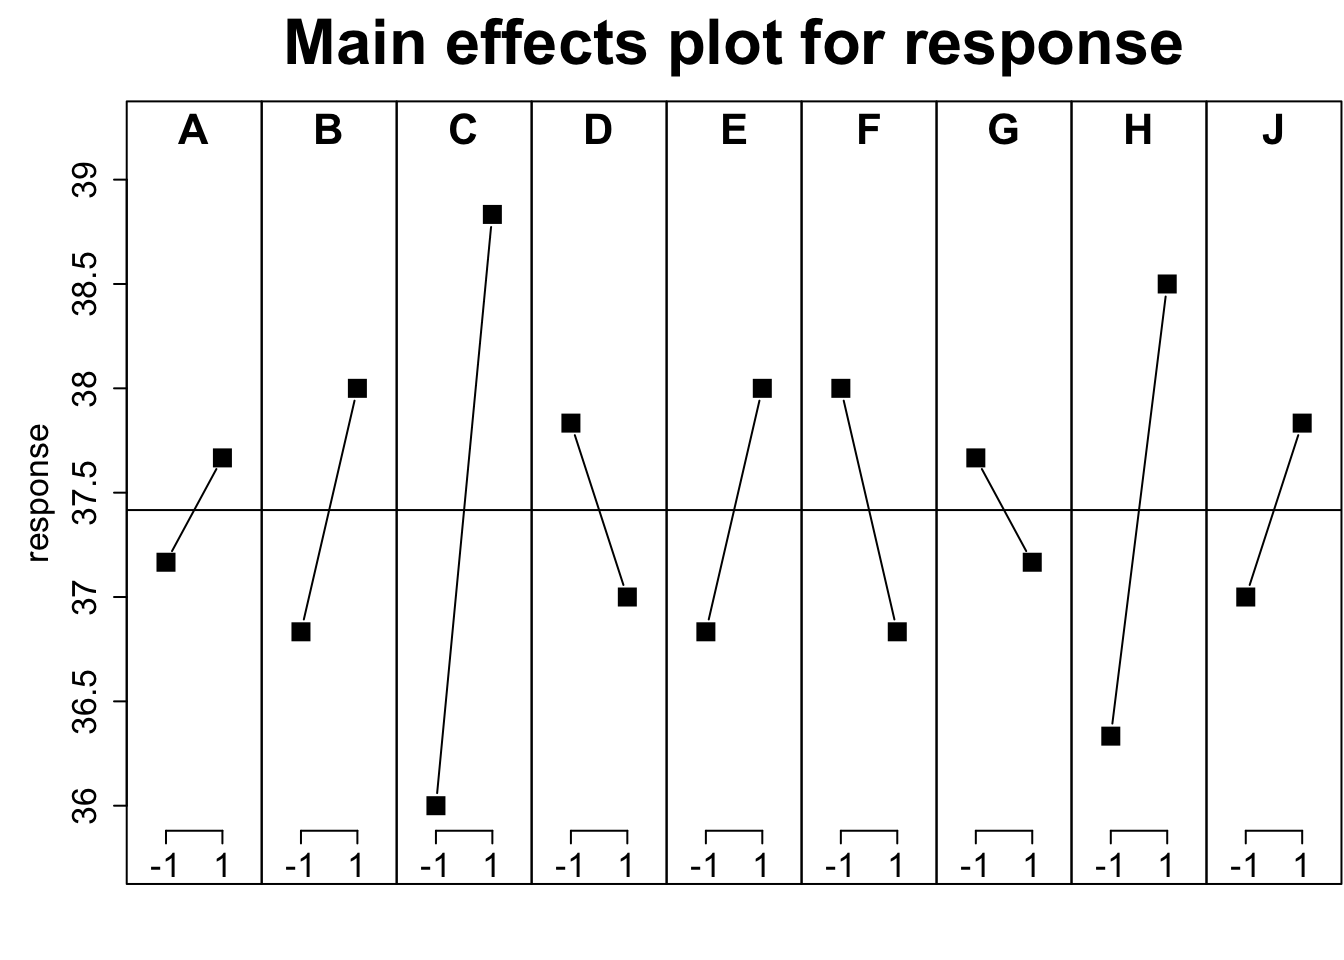
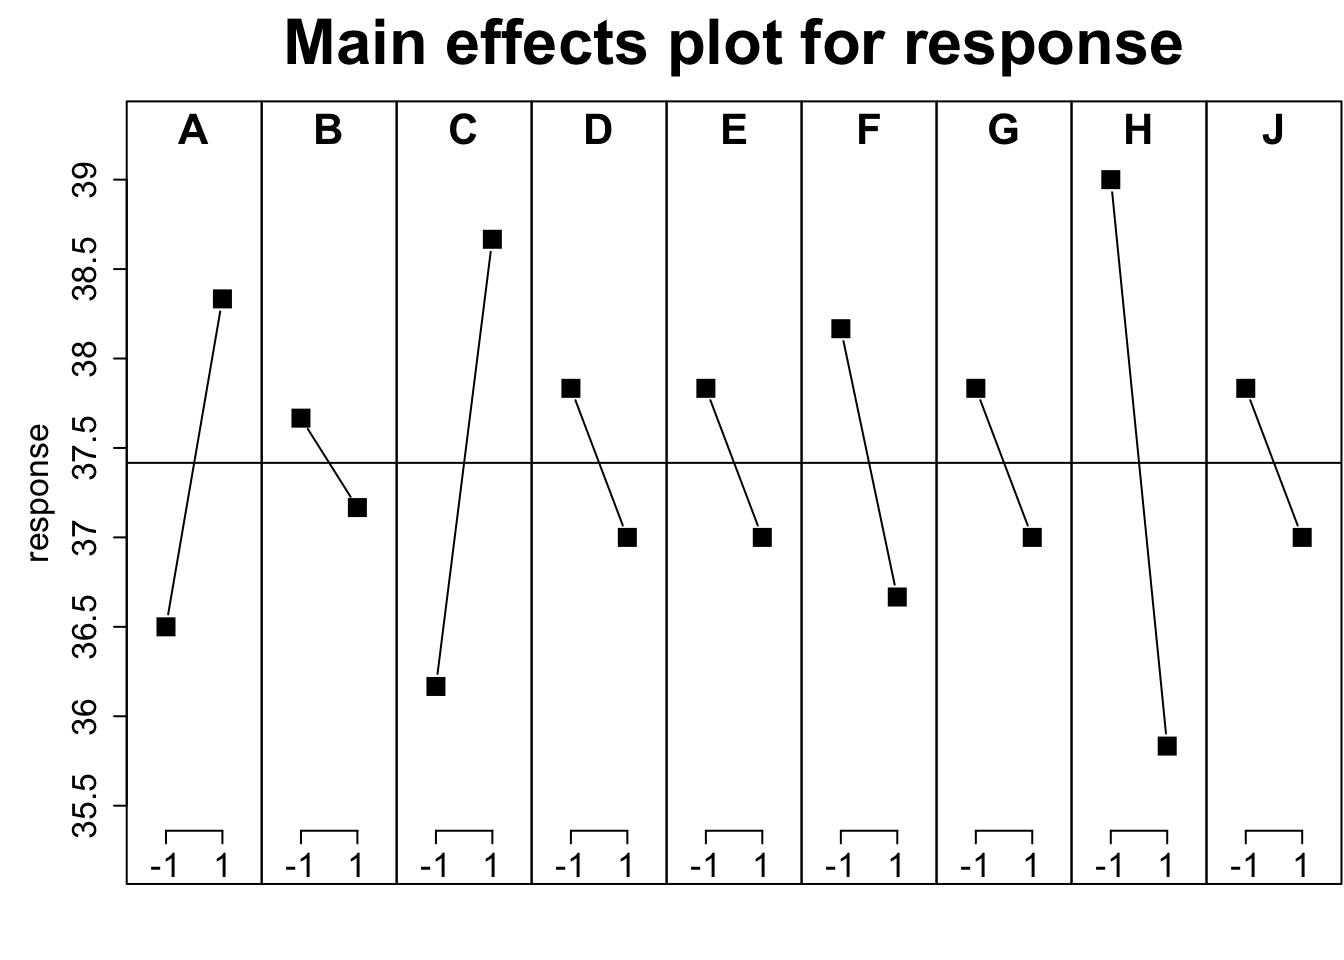
add new post

diff --git a/content/cn/2019-02-05-doe.html b/content/cn/2019-02-05-doe.html
@@ -31,18 +31,18 @@ tags: []
 <pre class="r"><code>suppressMessages(library(FrF2))
 pb(12,nfactors = 9)</code></pre>
 <pre><code>##     A  B  C  D  E  F  G  H  J
-## 1   1  1  1 -1 -1 -1  1 -1  1
-## 2  -1  1  1  1 -1 -1 -1  1 -1
-## 3   1  1 -1  1  1  1 -1 -1 -1
-## 4   1  1 -1 -1 -1  1 -1  1  1
-## 5  -1  1  1 -1  1  1  1 -1 -1
-## 6   1 -1  1  1  1 -1 -1 -1  1
-## 7  -1  1 -1  1  1 -1  1  1  1
+## 1   1 -1 -1 -1  1 -1  1  1 -1
+## 2  -1  1 -1  1  1 -1  1  1  1
+## 3  -1  1  1  1 -1 -1 -1  1 -1
+## 4  -1  1  1 -1  1  1  1 -1 -1
+## 5  -1 -1 -1 -1 -1 -1 -1 -1 -1
+## 6   1  1 -1 -1 -1  1 -1  1  1
+## 7   1 -1  1  1 -1  1  1  1 -1
 ## 8  -1 -1 -1  1 -1  1  1 -1  1
-## 9  -1 -1  1 -1  1  1 -1  1  1
-## 10 -1 -1 -1 -1 -1 -1 -1 -1 -1
-## 11  1 -1 -1 -1  1 -1  1  1 -1
-## 12  1 -1  1  1 -1  1  1  1 -1
+## 9   1  1 -1  1  1  1 -1 -1 -1
+## 10  1  1  1 -1 -1 -1  1 -1  1
+## 11 -1 -1  1 -1  1  1 -1  1  1
+## 12  1 -1  1  1  1 -1 -1 -1  1
 ## class=design, type= pb</code></pre>
 <p>这里面1与-1分别代表两个水平，当然试验设计牵扯到分辨率问题，可以理解为对该试验设计的评价，分辨率高，能区分的影响就更细致，可以用<code>FrF2</code>包中的<code>GR</code>函数来计算。需要注意的是，<code>FrF2</code>包也可以用 <code>FrF2</code> 函数来进行两水平试验设计，这里是分辨率高时是可以考察交互作用的。</p>
 <p>那么当你收集了数据，该如何分析呢？<code>FrF2</code>包实际继承了 <code>DoE.base</code> 包的S3对象类型，你只需要用 <code>add.response</code> 增加你的试验结果到设计出的S3对象上，然后就可以用方差分析或线性回归进行分析了。结果同样可以用<code>MEPlot</code>函数来进行可视化。当然，也可以用<code>halfnormal</code>函数来评价因子影响。</p>
@@ -61,28 +61,28 @@ MEPlot(plan.resp, abbrev = 5, cex.xax = 1.6, cex.main = 2)</code></pre>
 ## 
 ## Residuals:
 ##      1      2      3      4      5      6      7      8      9     10 
-##  0.667 -1.833  0.667  0.667  1.833 -1.833 -0.667 -0.667  1.833 -0.667 
+## -0.667  0.500  0.500  0.667 -0.667  0.667 -0.500 -0.500 -0.667 -0.500 
 ##     11     12 
-##  1.833 -1.833 
+##  0.667  0.500 
 ## 
 ## Coefficients:
 ##             Estimate Std. Error t value Pr(&gt;|t|)    
-## (Intercept)   37.417      0.975   38.36  0.00068 ***
-## A1             0.250      0.975    0.26  0.82167    
-## B1             0.583      0.975    0.60  0.61051    
-## C1             1.417      0.975    1.45  0.28354    
-## D1            -0.417      0.975   -0.43  0.71084    
-## E1             0.583      0.975    0.60  0.61051    
-## F1            -0.583      0.975   -0.60  0.61051    
-## G1            -0.250      0.975   -0.26  0.82167    
-## H1             1.083      0.975    1.11  0.38235    
-## J1             0.417      0.975    0.43  0.71084    
+## (Intercept)   37.417      0.417    89.8  0.00012 ***
+## A1             0.917      0.417     2.2  0.15881    
+## B1            -0.250      0.417    -0.6  0.60943    
+## C1             1.250      0.417     3.0  0.09547 .  
+## D1            -0.417      0.417    -1.0  0.42265    
+## E1            -0.417      0.417    -1.0  0.42265    
+## F1            -0.750      0.417    -1.8  0.21367    
+## G1            -0.417      0.417    -1.0  0.42265    
+## H1            -1.583      0.417    -3.8  0.06280 .  
+## J1            -0.417      0.417    -1.0  0.42265    
 ## ---
 ## Signif. codes:  0 &#39;***&#39; 0.001 &#39;**&#39; 0.01 &#39;*&#39; 0.05 &#39;.&#39; 0.1 &#39; &#39; 1
 ## 
-## Residual standard error: 3.38 on 2 degrees of freedom
-## Multiple R-squared:  0.711,  Adjusted R-squared:  -0.591 
-## F-statistic: 0.546 on 9 and 2 DF,  p-value: 0.785</code></pre>
+## Residual standard error: 1.44 on 2 degrees of freedom
+## Multiple R-squared:  0.947,  Adjusted R-squared:  0.71 
+## F-statistic: 3.99 on 9 and 2 DF,  p-value: 0.217</code></pre>
 <p>在这里PB设计实际上是一种预选法，如果结果显示某些变量影响显著，那么事实上就可以针对这些变量进行进一步的精细筛选，其余的变量可以直接固定为一个水平进行进一步设计。PB法在工业届用的比较多，但你应该想到了，如果只是进行变量选择，为啥不用随机森林或lasso？其实都可以，但这些方法不是设计而更多是数据分析通用方法，设计上除了最重要的随机性也是要考虑各因子贡献或者说重复数尽量平衡些的，否则会过分偏重某个因子，或者干脆配对或组成区组。像这样不做预设去设计对各个因子都公平，如果有预设或现实条件不允许，也可以裂区设计。</p>
 <p>当选出重要因素时，下一步常见是正交试验或响应面分析，用来优选参数。正交表这玩意我在书中没找到，文献里用得多的也是亚洲人，老外统一用析因试验来进行考察。其实正交表的设计原理就是用尽量少的步骤遍历掉因子空间，这样进行一定次数试验就可以发现最优组合。R中的实现基本都在<code>DoE.base</code> 包里，这个包内置了一堆可以直接调用的正交表，可以根据需求进行查询。例如我有6个因素，水平数分别是2，3，3，2，2，6，然后我只打算做不超过54次试验，这时可以直接调用<code>show.oas</code>函数进行查询，给出的正交表随意选一个就可以继续。</p>
 <pre class="r"><code>show.oas(nruns = c(0, 54), nlevels = c(2, 3, 3, 2, 2, 6), showmetrics = TRUE)</code></pre>
@@ -103,42 +103,42 @@ MEPlot(plan.resp, abbrev = 5, cex.xax = 1.6, cex.main = 2)</code></pre>
 <p>这里我们选分辨率略高的<code>L36.2.10.3.8.6.1</code>，从名字上看，这是一个36次试验表，可以包含10个两水平，8个三水平与1个六水平因子，这也是唯一一个分辨率高于3，可以排除交互作用的设计方法。这里我反复提到分辨率，实际上就是一种考察试验设计合理性的指标，分辨率3一般指只能区分没有交互作用的各因子贡献差异，高于3就可以区分一定的因子交互作用，可以用<code>GR</code>去计算一个广义分辨率并用<code>oa.design</code>来进一步优化这个设计，因为其实符合正交表只是众多选择的一个子集，不过根据优化方法的不同，优化时间也不太一样。</p>
 <pre class="r"><code>oa.design(L36.2.10.3.8.6.1, nlevels = c(2, 3, 3, 2, 2, 6), columns = &quot;min34&quot;)</code></pre>
 <pre><code>##    A B C D E F
-## 1  1 2 2 1 1 3
-## 2  2 3 1 1 2 2
-## 3  1 2 2 2 2 2
-## 4  2 2 2 1 2 1
-## 5  1 2 3 1 1 1
-## 6  1 2 3 2 2 5
-## 7  2 3 3 2 1 6
-## 8  2 1 2 1 2 4
-## 9  1 3 3 2 2 4
-## 10 1 1 2 1 1 5
-## 11 2 3 2 2 2 5
-## 12 1 3 1 2 2 1
-## 13 2 3 3 1 2 3
+## 1  1 2 3 1 1 1
+## 2  1 2 2 2 2 2
+## 3  2 1 2 1 2 4
+## 4  1 1 3 1 2 2
+## 5  2 2 1 2 1 5
+## 6  2 2 3 1 1 2
+## 7  1 2 1 1 2 4
+## 8  2 2 2 2 1 4
+## 9  2 2 1 2 2 3
+## 10 2 3 2 2 2 5
+## 11 1 1 2 1 1 5
+## 12 2 3 2 2 1 1
+## 13 2 1 1 2 1 2
 ## 14 1 1 1 2 2 6
-## 15 2 2 3 1 2 6
-## 16 2 1 1 2 1 2
-## 17 2 1 3 2 2 1
-## 18 2 1 1 1 2 5
-## 19 1 1 3 1 2 2
-## 20 1 3 2 1 2 6
-## 21 2 1 2 1 1 6
-## 22 2 3 1 1 1 4
-## 23 2 2 1 2 2 3
-## 24 2 2 3 1 1 2
-## 25 1 3 2 2 1 2
-## 26 2 1 3 2 1 3
-## 27 1 1 1 1 1 1
-## 28 2 2 1 2 1 5
-## 29 1 1 3 2 1 4
-## 30 2 2 2 2 1 4
-## 31 2 3 2 2 1 1
-## 32 1 1 2 2 2 3
-## 33 1 3 1 1 1 3
-## 34 1 3 3 1 1 5
-## 35 1 2 1 1 2 4
-## 36 1 2 1 2 1 6
+## 15 1 1 1 1 1 1
+## 16 1 2 1 2 1 6
+## 17 1 1 2 2 2 3
+## 18 2 3 1 1 2 2
+## 19 1 3 1 2 2 1
+## 20 2 1 3 2 2 1
+## 21 1 3 1 1 1 3
+## 22 1 3 3 1 1 5
+## 23 2 1 1 1 2 5
+## 24 2 1 3 2 1 3
+## 25 1 3 2 1 2 6
+## 26 1 2 3 2 2 5
+## 27 1 1 3 2 1 4
+## 28 2 2 2 1 2 1
+## 29 1 3 2 2 1 2
+## 30 2 3 3 2 1 6
+## 31 1 3 3 2 2 4
+## 32 2 2 3 1 2 6
+## 33 2 3 3 1 2 3
+## 34 2 1 2 1 1 6
+## 35 1 2 2 1 1 3
+## 36 2 3 1 1 1 4
 ## class=design, type= oa</code></pre>
 <p>使用这个函数你就不用费力去套正交表了，直接可以用输出的设计方案，记得要说明你的分辨率优化方案。如果你坚持套正交表，一定要理解如何去套，因为正交表的排列是很讲究的，特别是你要考虑交互作用的影响。如果一个表最多14个因子而你就设计了14个因子，那么分辨率不会超过3。正交设计的分析与前面PB设计是一致的，都是沿用添加响应，然后方差分析或线性分析随意来就是了，<code>DoE.base</code> 包为<code>design</code>这个对象类型设置了<code>lm</code>与<code>aov</code>方法。</p>
 <p>在进行数据分析时，有时会遇到方差分析与线性回归的区别问题，打比方你用线性回归来做分析，会有审稿人问你lack of fit检验有没有做。这个检验实质上也是个F检验，用来衡量线性模型之外残差里分组变异与纯误差变异的比值，如果分组变异还是比较大，那么线性假设可能就不合理。</p>

diff --git a/content/cn/2019-02-14-compiler.md b/content/cn/2019-02-14-compiler.md
@@ -1,0 +1,43 @@
+---
+title: 编译器漫谈
+author: ''
+date: '2019-02-14'
+slug: compiler
+categories: []
+tags: []
+---
+
+最近借由一次R包安装失败，我又重新收集了下关于编译的概念与知识，为了让下一次失忆的我不至于再折腾半天，就归纳到这里。
+
+C语言源码编译运行过程是这样的：先预处理源码，调入模块，然后转换成汇编语言文件，汇编语言文件可以被汇编器转为机器码，然后通过连接器合并为可执行文件，最后加载到内存里运行。因为C语言是多数操作系统的基础，所以多数操作系统也自带对应的C编译器。更重要的是，C语言的库很丰富，也就是工具函数比较多，换别的就得自己写。这是很有意思的路径依赖案例，事实上任何语言都应该可以拿来写操作系统，不过C是在开发Unix时候设计出来的，现在流行的开发级操作系统都是unix/类unix操作系统，加上C在内存管理与CPU交互上的先天优势，历史机遇下成为了主流。
+
+C的核心地位还体现在很多高级语言的编译器是构建在C之上的，或者是C++之上，多数高级语言都通过限制自由度（例如不让操作内存、功能模块化等）来实现上手容易与较高的开发效率，但只要关注程序性能，肯定回去学C或C++的。GNU的GCC编译器是一个相对通用的编译器合集，可以用来编译包括C在内的多种语言。然而，GCC也是有历史包袱的，所有有人就另起炉灶单独针对C或C++重写了效率更高的编译器及其后台，这就是苹果的LLVM项目与clang编译器。但要注意的是LLVM支持的语言不如GCC多，所以如果你还要用到fortain或java编译器，那就还是老老实实用GCC吧，或者cmake的时候分别指定编译器，只要你不嫌麻烦。一般而言，效率与性能往往不能兼得。
+
+高级语言的编译过程跟相对底层的C或C++是不一样的，Java就是自己定义了一套运行环境JVM，编译出的文件也是JVM可读的，这就提高了Java的可移植性，降低了跨平台开发的难度，当然你得保证这些平台上可以运行JVM。其实很多高级语言是解释型的，REPL里可直接运行代码，但同样会有人为高级语言写编译器来提高运行性能，这个是按需求来。我个人感觉是用REPL的人一般是应用层的，关心有没有满足自己需求的函数；用编译语言的人一般是开发层的，关心软件工程及性能。然而，高级语言里如果打算提高运行效率，也会提供C或C++的接口让程序员可以通过外力来提高自由度。过度的功能封装实际也限制了高级语言的应用场景。
+
+说到效率，自然少不了并行计算，openmp就是一种并行化方案，可以支撑C与C++。很多R包会通过使用 openmp 来底层加速算法，但这样的包一般都需要单独编译。目前GCC与Clang在编译器层其实都实现了对 openmp 的支持，编译时加上 `-fopenmp` 就可以。不过 mac os 自带的编译器是没有这个功能的，所以你需要 homebrew 来自己安装这些支持 openmp 的编译器然后在 `.R/Makevars` 里把默认编译器换成新的就可以了。
+
+例如你装了llvm/Clang，可以写上：
+
+~~~
+CC=/usr/local/opt/llvm/bin/clang
+CXX=/usr/local/opt/llvm/bin/clang++
+CXX11=/usr/local/opt/llvm/bin/clang++
+~~~
+
+或者GCC版（注意版本要对应）：
+
+~~~
+CC=/usr/local/bin/gcc-8
+CXX=/usr/local/bin/gcc-8
+CXX11=/usr/local/bin/gcc-8
+~~~
+
+或者更简单的方法就是不用并行计算，直接在`.R/Makevars` 里参数留空强制跳过对openmp的编译要求：
+
+~~~
+SHLIB_OPENMP_CFLAGS=
+SHLIB_OPENMP_CXXFLAGS=
+~~~
+
+同样的道理可以用在开发上，如果你编写R包涉及了相关并行计算功能，需要在`src`目录下创建Makevars文件来帮助用户提前配置编译参数，不过这方面我就没经验了。
